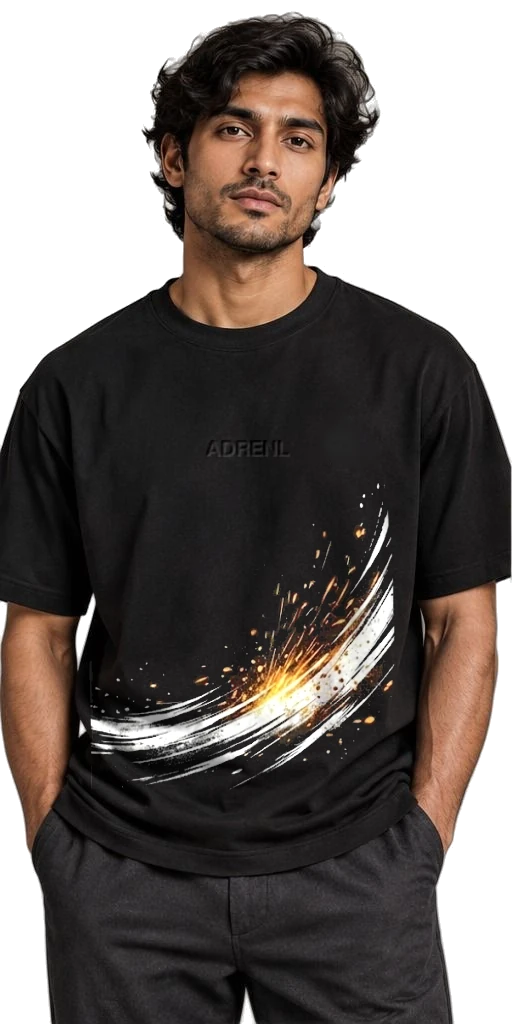
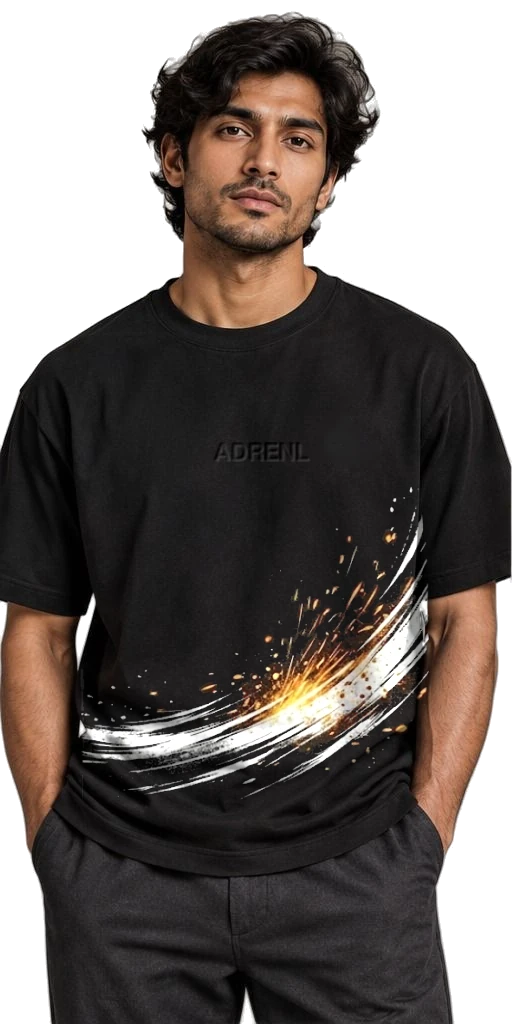
Design lab: one flick, one design on PC; prints reach the side seams
Mouse wheel and touchpad: a flick (a run of wheel events under 200 ms apart)
glides exactly one design up or down, or one side sideways, instead of a small
scroll and a snap jump; the story column still scrolls on its own. Mock-ups:
the hanger template's prints (FREEFALL, DRIFT, POWDER, DIVE, APEX, ICEFALL)
are mapped seam to seam onto the model, so the edges that stop at the panel
seams in the design pictures meet the model's seams instead of ending in mid
air; BARREL's back wave now joins its sleeve wave.

Changed region(s): [[0.1562, 0.5, 0.8438, 0.7812], [0.4688, 0.4375, 0.5, 0.4688]]

diff --git a/components/LabViewer.tsx b/components/LabViewer.tsx
@@ -140,6 +140,36 @@ export function LabViewer({ items, all, focus, instant, view, picks, onPick, ans
     // eslint-disable-next-line react-hooks/exhaustive-deps
   }, []);
 
+  // Mouse wheel and touchpad (2026-11-21, "the transition in PC is not smooth"): left alone, a wheel notch scrolls a little and
+  // then the snap jumps. Instead one flick, however long its inertia, glides exactly one design (up/down) or one side
+  // (sideways). A gesture is a run of wheel events less than 200 ms apart. Over the story column or sheet, if that can still
+  // scroll that way, it scrolls as usual.
+  useEffect(() => {
+    const el = track.current;
+    if (!el) return;
+    let last = 0;
+    let fired = false;
+    const canScroll = (box: Element | null, dy: number) =>
+      !!box && (dy > 0 ? box.scrollTop + box.clientHeight < box.scrollHeight - 1 : box.scrollTop > 0);
+    const onWheel = (e: WheelEvent) => {
+      const vertical = Math.abs(e.deltaY) >= Math.abs(e.deltaX);
+      const target = e.target as Element | null;
+      if (vertical && canScroll(target?.closest?.('.lv-aside, .lv-body') ?? null, e.deltaY)) return;
+      e.preventDefault();
+      const now = performance.now();
+      if (now - last > 200) fired = false;
+      last = now;
+      const d = vertical ? e.deltaY : e.deltaX;
+      if (fired || Math.abs(d) < 4) return;
+      fired = true;
+      const a = api.current;
+      if (vertical) a.goDesign(d > 0 ? 1 : -1);
+      else a.goView(a.at, a.side(a.at) + (d > 0 ? 1 : -1));
+    };
+    el.addEventListener('wheel', onWheel, { passive: false });
+    return () => el.removeEventListener('wheel', onWheel);
+  }, []);
+
   // Wide screens: if the right column was scrolled down when the heart went on, bring the question back into view.
   useEffect(() => {
     if (!ask || !isWide()) return;
